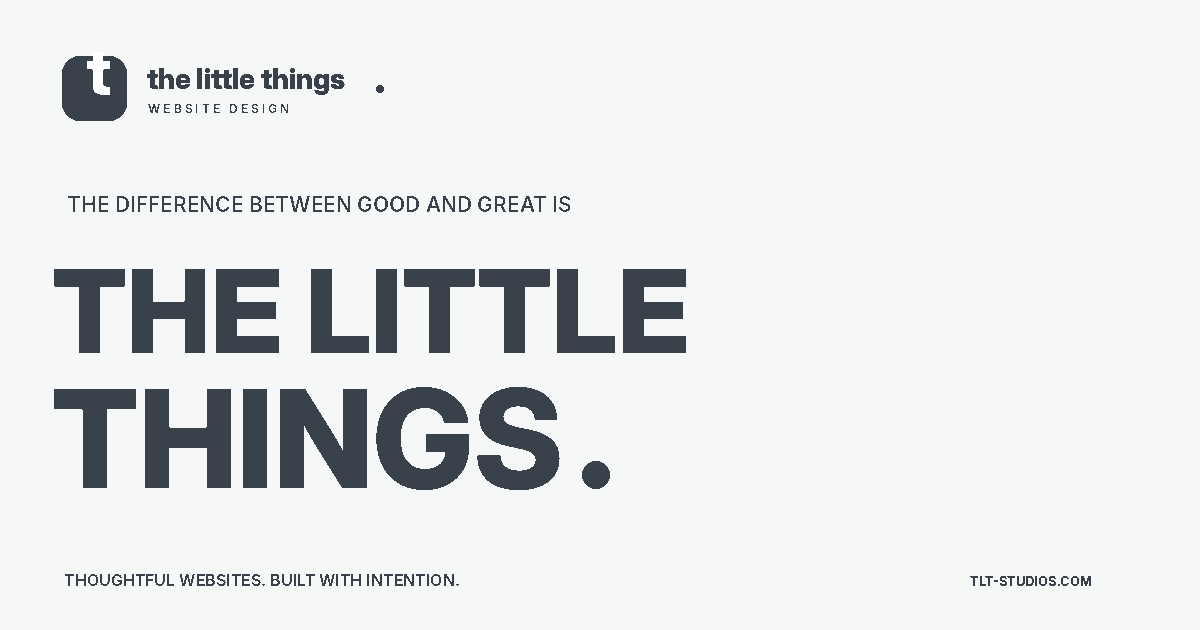
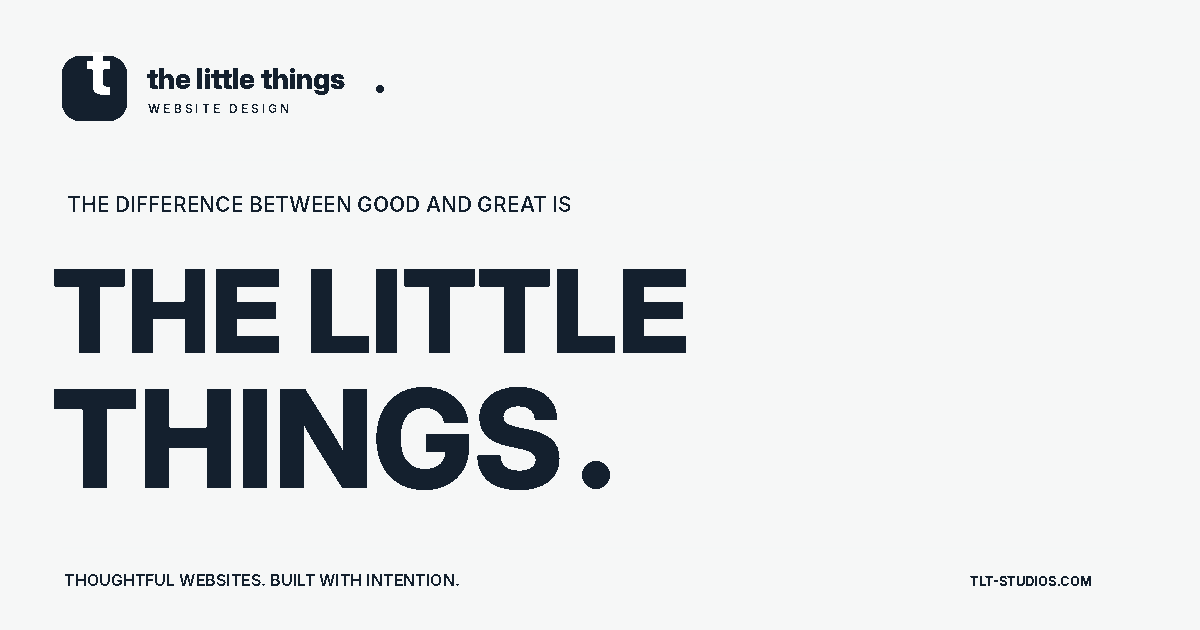
Update iMessage link preview to branded navy and refresh OG image cache

diff --git a/index.html b/index.html
@@ -11,8 +11,8 @@
   <meta property="og:url" content="https://tlt-studios.com/" />
   <meta property="og:title" content="The Little Things Studios | Website Design" />
   <meta property="og:description" content="The difference between good and great is the little things. Thoughtful websites, built with intention." />
-  <meta property="og:image" content="https://tlt-studios.com/social-preview.png" />
-  <meta property="og:image:secure_url" content="https://tlt-studios.com/social-preview.png" />
+  <meta property="og:image" content="https://tlt-studios.com/social-preview.png?v=4" />
+  <meta property="og:image:secure_url" content="https://tlt-studios.com/social-preview.png?v=4" />
   <meta property="og:image:type" content="image/png" />
   <meta property="og:image:width" content="1200" />
   <meta property="og:image:height" content="630" />
@@ -20,7 +20,7 @@
   <meta name="twitter:card" content="summary_large_image" />
   <meta name="twitter:title" content="The Little Things Studios | Website Design" />
   <meta name="twitter:description" content="The difference between good and great is the little things. Thoughtful websites, built with intention." />
-  <meta name="twitter:image" content="https://tlt-studios.com/social-preview.png" />
+  <meta name="twitter:image" content="https://tlt-studios.com/social-preview.png?v=4" />
   <link rel="icon" href="/favicon.svg?v=3" type="image/svg+xml" />
   <link rel="apple-touch-icon" sizes="180x180" href="/apple-touch-icon.png?v=3" />
   <link rel="stylesheet" href="/styles.css" />
